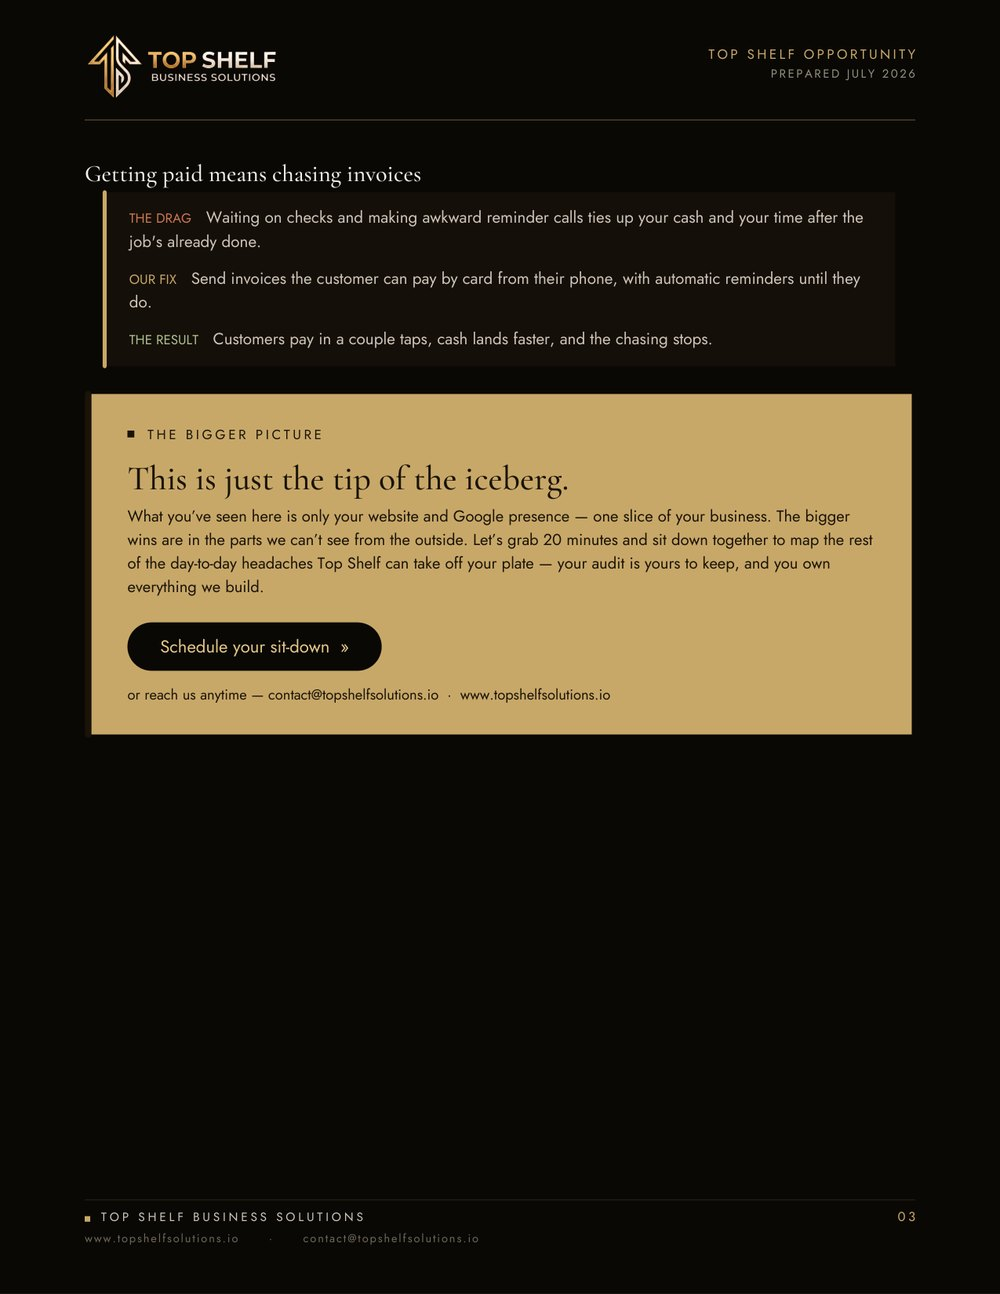
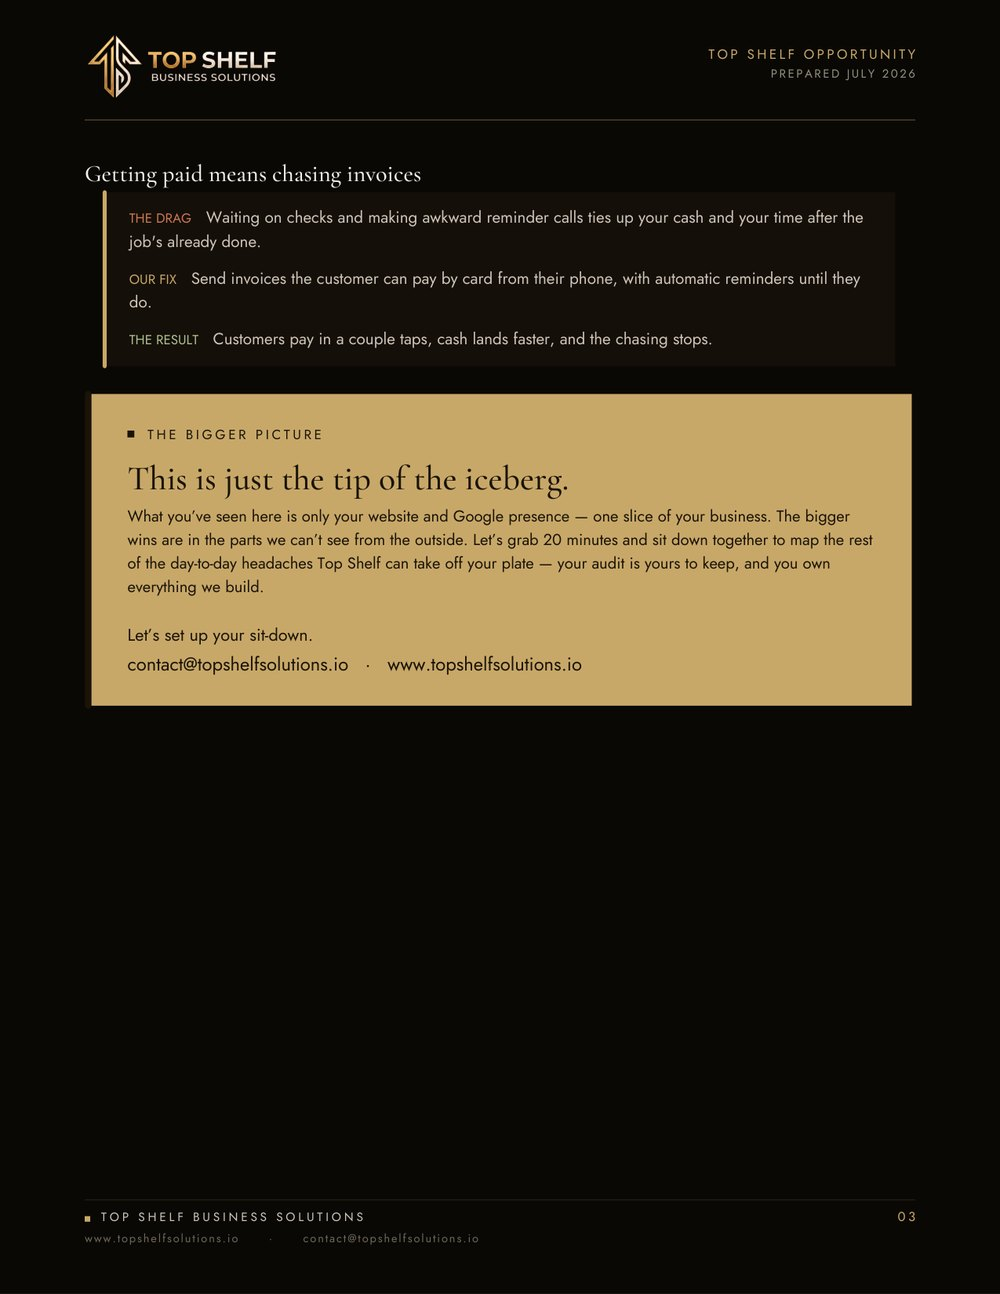
Proposals: print-friendly CTA (email+website, no button)

Changed region(s): [[0.093, 0.4637, 0.93, 0.5873]]

diff --git a/proposals/13_Budget-Blinds.html b/proposals/13_Budget-Blinds.html
@@ -24,5 +24,5 @@ h1 em{font-style:italic;color:#E4C98A}
 .foot{margin-top:2.6rem;padding-top:1.6rem;border-top:1px solid rgba(201,162,75,.15);font-size:.74rem;color:#6E675A;display:flex;justify-content:space-between;flex-wrap:wrap;gap:.6rem}
 .foot a{color:#C9A24B;text-decoration:none}
 </style></head><body><div class="wrap">
-<a class="back" href="index.html">&larr; All proposals</a><span class="eyebrow">Top Shelf Opportunity</span><h1 style="font-size:clamp(1.7rem,6vw,2.5rem)">Budget Blinds of Flower Mound</h1><p class="sub" style="margin-bottom:1.6rem">Window treatments &middot; franchise</p><a class="dl" href="13_Budget-Blinds/13_Budget-Blinds__TopShelf-Opportunity.pdf?v=3">Download PDF</a><div class="pages"><img src="13_Budget-Blinds/p1.jpg?v=3" alt="Budget Blinds of Flower Mound proposal page 1" loading="lazy"><img src="13_Budget-Blinds/p2.jpg?v=3" alt="Budget Blinds of Flower Mound proposal page 2" loading="lazy"><img src="13_Budget-Blinds/p3.jpg?v=3" alt="Budget Blinds of Flower Mound proposal page 3" loading="lazy"></div><a class="dl" href="13_Budget-Blinds/13_Budget-Blinds__TopShelf-Opportunity.pdf?v=3">Download PDF</a><div class="foot"><span>&copy; 2026 Top Shelf Business Solutions &middot; Proposal previews</span>
+<a class="back" href="index.html">&larr; All proposals</a><span class="eyebrow">Top Shelf Opportunity</span><h1 style="font-size:clamp(1.7rem,6vw,2.5rem)">Budget Blinds of Flower Mound</h1><p class="sub" style="margin-bottom:1.6rem">Window treatments &middot; franchise</p><a class="dl" href="13_Budget-Blinds/13_Budget-Blinds__TopShelf-Opportunity.pdf?v=4">Download PDF</a><div class="pages"><img src="13_Budget-Blinds/p1.jpg?v=4" alt="Budget Blinds of Flower Mound proposal page 1" loading="lazy"><img src="13_Budget-Blinds/p2.jpg?v=4" alt="Budget Blinds of Flower Mound proposal page 2" loading="lazy"><img src="13_Budget-Blinds/p3.jpg?v=4" alt="Budget Blinds of Flower Mound proposal page 3" loading="lazy"></div><a class="dl" href="13_Budget-Blinds/13_Budget-Blinds__TopShelf-Opportunity.pdf?v=4">Download PDF</a><div class="foot"><span>&copy; 2026 Top Shelf Business Solutions &middot; Proposal previews</span>
 <a href="https://www.topshelfsolutions.io">www.topshelfsolutions.io</a></div></div></body></html>

diff --git a/proposals/11_Absolute-Plumbing.html b/proposals/11_Absolute-Plumbing.html
@@ -24,5 +24,5 @@ h1 em{font-style:italic;color:#E4C98A}
 .foot{margin-top:2.6rem;padding-top:1.6rem;border-top:1px solid rgba(201,162,75,.15);font-size:.74rem;color:#6E675A;display:flex;justify-content:space-between;flex-wrap:wrap;gap:.6rem}
 .foot a{color:#C9A24B;text-decoration:none}
 </style></head><body><div class="wrap">
-<a class="back" href="index.html">&larr; All proposals</a><span class="eyebrow">Top Shelf Opportunity</span><h1 style="font-size:clamp(1.7rem,6vw,2.5rem)">Absolute Plumbing</h1><p class="sub" style="margin-bottom:1.6rem">Plumbing &amp; drain services</p><a class="dl" href="11_Absolute-Plumbing/11_Absolute-Plumbing__TopShelf-Opportunity.pdf?v=3">Download PDF</a><div class="pages"><img src="11_Absolute-Plumbing/p1.jpg?v=3" alt="Absolute Plumbing proposal page 1" loading="lazy"><img src="11_Absolute-Plumbing/p2.jpg?v=3" alt="Absolute Plumbing proposal page 2" loading="lazy"><img src="11_Absolute-Plumbing/p3.jpg?v=3" alt="Absolute Plumbing proposal page 3" loading="lazy"></div><a class="dl" href="11_Absolute-Plumbing/11_Absolute-Plumbing__TopShelf-Opportunity.pdf?v=3">Download PDF</a><div class="foot"><span>&copy; 2026 Top Shelf Business Solutions &middot; Proposal previews</span>
+<a class="back" href="index.html">&larr; All proposals</a><span class="eyebrow">Top Shelf Opportunity</span><h1 style="font-size:clamp(1.7rem,6vw,2.5rem)">Absolute Plumbing</h1><p class="sub" style="margin-bottom:1.6rem">Plumbing &amp; drain services</p><a class="dl" href="11_Absolute-Plumbing/11_Absolute-Plumbing__TopShelf-Opportunity.pdf?v=4">Download PDF</a><div class="pages"><img src="11_Absolute-Plumbing/p1.jpg?v=4" alt="Absolute Plumbing proposal page 1" loading="lazy"><img src="11_Absolute-Plumbing/p2.jpg?v=4" alt="Absolute Plumbing proposal page 2" loading="lazy"><img src="11_Absolute-Plumbing/p3.jpg?v=4" alt="Absolute Plumbing proposal page 3" loading="lazy"></div><a class="dl" href="11_Absolute-Plumbing/11_Absolute-Plumbing__TopShelf-Opportunity.pdf?v=4">Download PDF</a><div class="foot"><span>&copy; 2026 Top Shelf Business Solutions &middot; Proposal previews</span>
 <a href="https://www.topshelfsolutions.io">www.topshelfsolutions.io</a></div></div></body></html>

diff --git a/proposals/03_Canine-Courtyard.html b/proposals/03_Canine-Courtyard.html
@@ -24,5 +24,5 @@ h1 em{font-style:italic;color:#E4C98A}
 .foot{margin-top:2.6rem;padding-top:1.6rem;border-top:1px solid rgba(201,162,75,.15);font-size:.74rem;color:#6E675A;display:flex;justify-content:space-between;flex-wrap:wrap;gap:.6rem}
 .foot a{color:#C9A24B;text-decoration:none}
 </style></head><body><div class="wrap">
-<a class="back" href="index.html">&larr; All proposals</a><span class="eyebrow">Top Shelf Opportunity</span><h1 style="font-size:clamp(1.7rem,6vw,2.5rem)">Canine Courtyard</h1><p class="sub" style="margin-bottom:1.6rem">Dog daycare, boarding &amp; grooming</p><a class="dl" href="03_Canine-Courtyard/03_Canine-Courtyard__TopShelf-Opportunity.pdf?v=3">Download PDF</a><div class="pages"><img src="03_Canine-Courtyard/p1.jpg?v=3" alt="Canine Courtyard proposal page 1" loading="lazy"><img src="03_Canine-Courtyard/p2.jpg?v=3" alt="Canine Courtyard proposal page 2" loading="lazy"><img src="03_Canine-Courtyard/p3.jpg?v=3" alt="Canine Courtyard proposal page 3" loading="lazy"></div><a class="dl" href="03_Canine-Courtyard/03_Canine-Courtyard__TopShelf-Opportunity.pdf?v=3">Download PDF</a><div class="foot"><span>&copy; 2026 Top Shelf Business Solutions &middot; Proposal previews</span>
+<a class="back" href="index.html">&larr; All proposals</a><span class="eyebrow">Top Shelf Opportunity</span><h1 style="font-size:clamp(1.7rem,6vw,2.5rem)">Canine Courtyard</h1><p class="sub" style="margin-bottom:1.6rem">Dog daycare, boarding &amp; grooming</p><a class="dl" href="03_Canine-Courtyard/03_Canine-Courtyard__TopShelf-Opportunity.pdf?v=4">Download PDF</a><div class="pages"><img src="03_Canine-Courtyard/p1.jpg?v=4" alt="Canine Courtyard proposal page 1" loading="lazy"><img src="03_Canine-Courtyard/p2.jpg?v=4" alt="Canine Courtyard proposal page 2" loading="lazy"><img src="03_Canine-Courtyard/p3.jpg?v=4" alt="Canine Courtyard proposal page 3" loading="lazy"></div><a class="dl" href="03_Canine-Courtyard/03_Canine-Courtyard__TopShelf-Opportunity.pdf?v=4">Download PDF</a><div class="foot"><span>&copy; 2026 Top Shelf Business Solutions &middot; Proposal previews</span>
 <a href="https://www.topshelfsolutions.io">www.topshelfsolutions.io</a></div></div></body></html>
